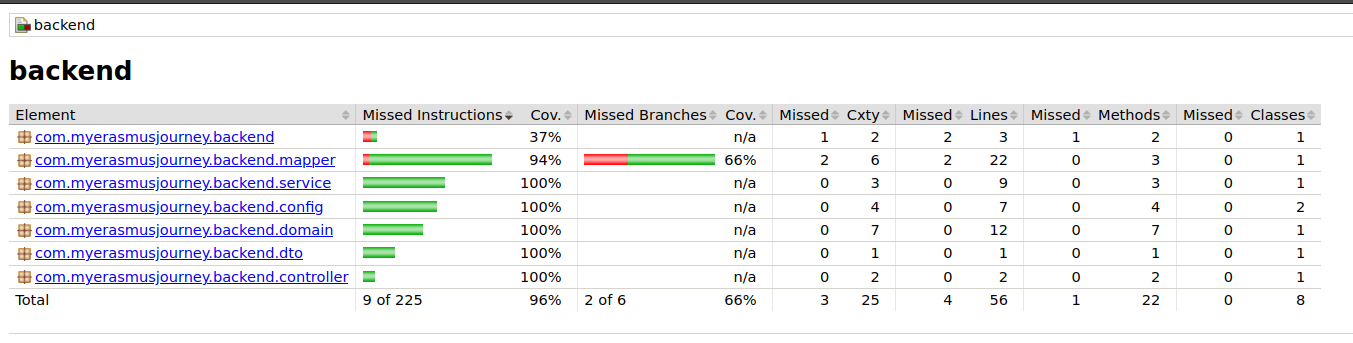
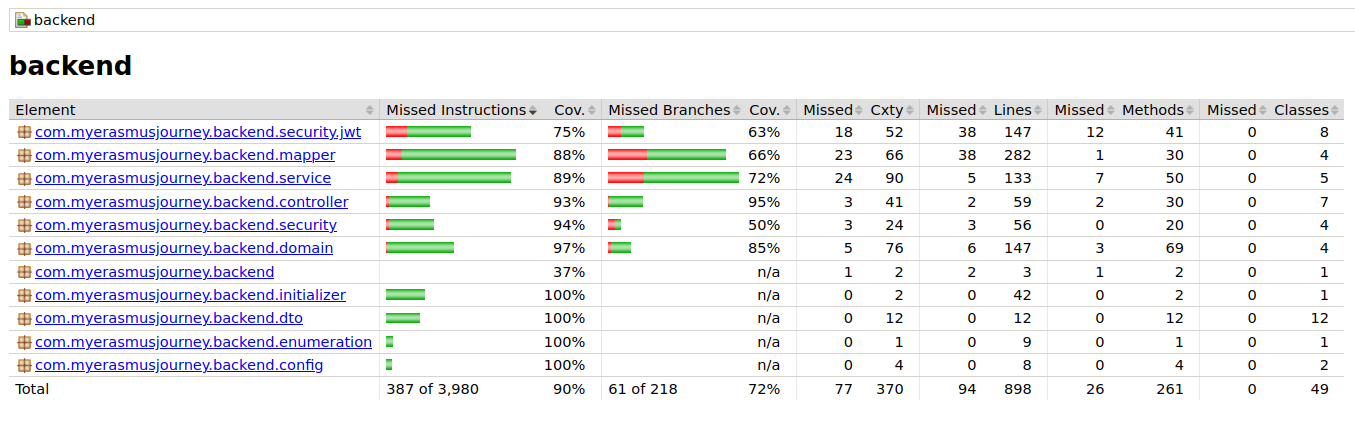
updating test coverage information

diff --git a/backend/src/test/java/com/myerasmusjourney/backend/unit/UserServiceTest.java b/backend/src/test/java/com/myerasmusjourney/backend/unit/UserServiceTest.java
@@ -9,6 +9,7 @@ import com.myerasmusjourney.backend.mapper.ExperienceMapper;
 import com.myerasmusjourney.backend.mapper.UserMapper;
 import com.myerasmusjourney.backend.repository.UserRepository;
 import com.myerasmusjourney.backend.service.UserService;
+import org.junit.jupiter.api.AfterEach;
 import org.junit.jupiter.api.Tag;
 import org.junit.jupiter.api.Test;
 import org.junit.jupiter.api.extension.ExtendWith;
@@ -50,6 +51,11 @@ public class UserServiceTest {
 
     @InjectMocks
     private UserService userService;
+
+    @AfterEach
+    void tearDown() {
+        SecurityContextHolder.clearContext();
+    }
 
     @Test
     void testSuccessfulCreateUser(){

diff --git a/backend/src/test/java/com/myerasmusjourney/backend/unit/UserFormDTOTest.java b/backend/src/test/java/com/myerasmusjourney/backend/unit/UserFormDTOTest.java
@@ -5,6 +5,9 @@ import org.junit.jupiter.api.Test;
 
 import static org.junit.jupiter.api.Assertions.*;
 
+import org.junit.jupiter.api.Tag;
+
+@Tag("unit")
 public class UserFormDTOTest {
 
     @Test

diff --git a/docs/development_guide.md b/docs/development_guide.md
@@ -571,9 +571,9 @@ Code coverage is measured independently for both application layers.
 
 Coverage summary:
 
-- Line coverage: 96 %
-- Branch coverage: 66 %
-- Classes covered: 8 / 8
+- Line coverage: 90 %
+- Branch coverage: 72 %
+- Classes covered: 49 / 49
 
 ---
 
@@ -583,17 +583,17 @@ Coverage summary:
 
 Coverage summary:
 
-- Statements: 100 %
-- Branches: 100 %
-- Functions: 100 %
-- Lines: 100 %
+- Statements: 94.48 %
+- Branches: 85.78 %
+- Functions: 92 %
+- Lines: 95.4 %
 
 ![Frontend Coverage](./images/shared_coverage.png)
 
 Coverage summary:
 
 - Statements: 100 %
-- Branches: 100 %
+- Branches: 92 %
 - Functions: 100 %
 - Lines: 100 %
 
